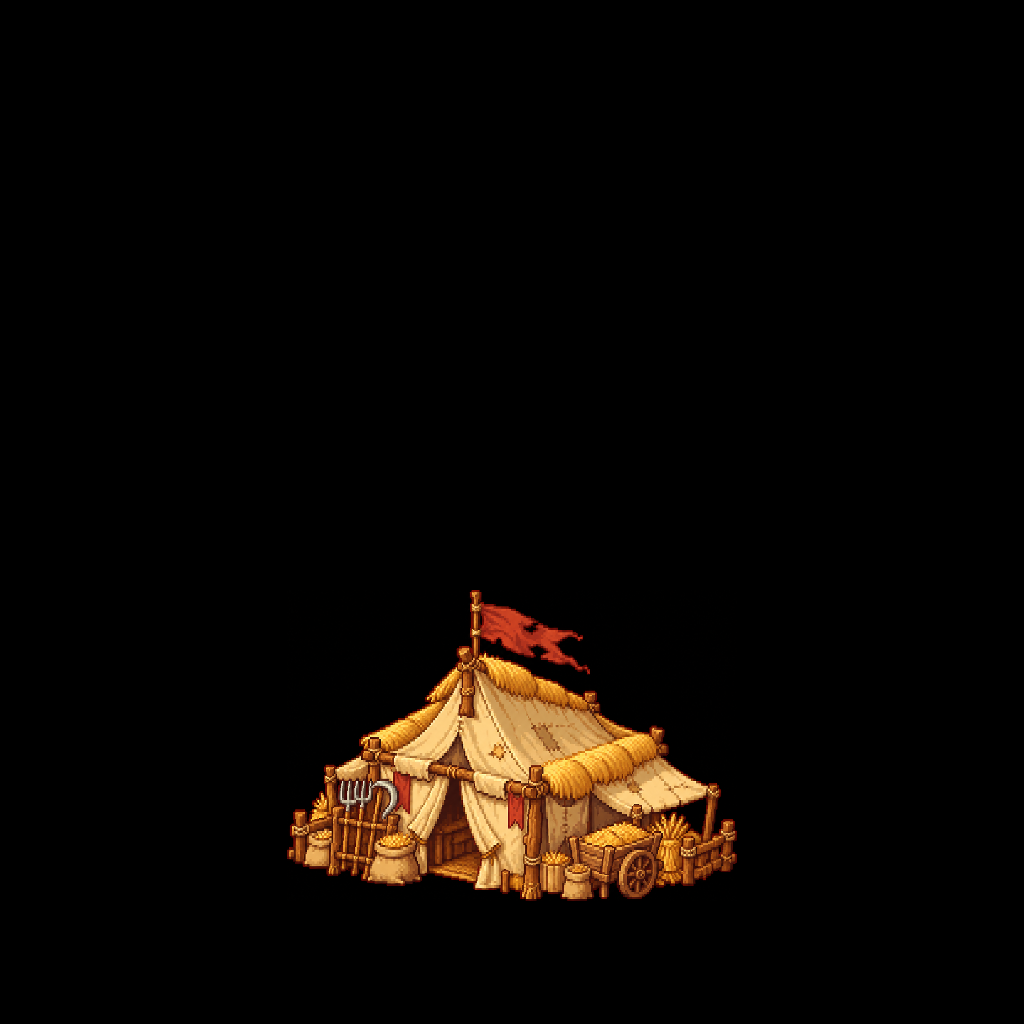
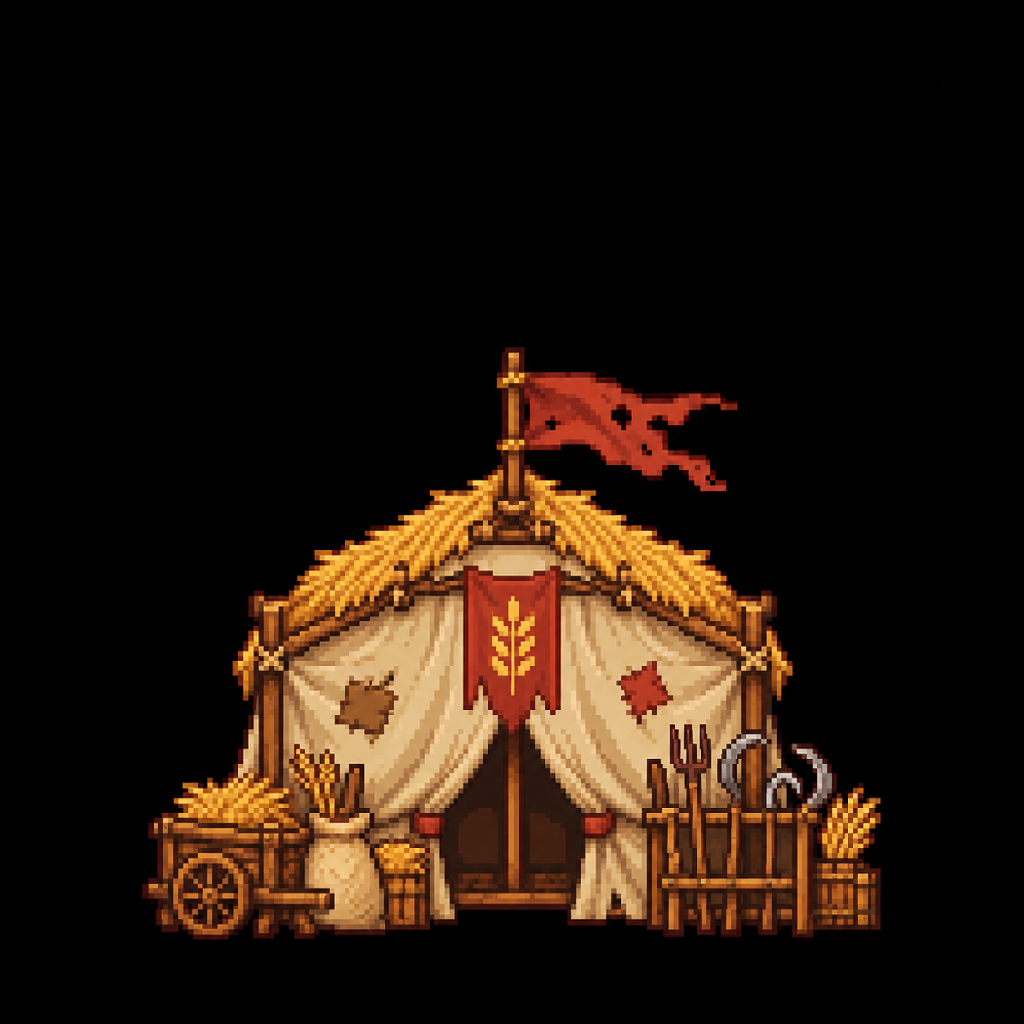
docs(art): redraw wheat buildings in the front-facing map perspective

Changed region(s): [[0.125, 0.3438, 0.875, 0.9375]]

diff --git a/docs/art-review/g3e/buildings/make_prompts.py b/docs/art-review/g3e/buildings/make_prompts.py
@@ -12,10 +12,10 @@ B = ROOT / 'docs/art-review/g3e/buildings'
 
 COMMON = """Tạo MỘT ảnh pixel art bằng công cụ tạo ảnh (imagegen) và lưu đúng một file PNG vào `{out}` (sao chép vào đó nếu ảnh tạo ra nằm ngoài repo; tạo thư mục nếu chưa có). Không sửa file khác, không commit, không chạy node/npm.
 
-Ảnh tham chiếu: `docs/art-review/g3e/ai-v1/source-sheet.webp` (nhà tranh, ô cỏ: chuẩn phong cách) và `docs/art-review/g3e/batch-01-barracks/source.png` (trại lính). Giữ ĐÚNG phong cách: pixel art fantasy ấm áp, "pixel" lớn khoảng 7×7 điểm ảnh, ánh sáng từ TRÊN-TRÁI, viền tối nâu đỏ 1 pixel quanh công trình, không anti-aliasing, không làm mờ, không chữ.
+Ảnh tham chiếu: `docs/art-review/g3e/ai-v1/source-sheet.webp` (nhà tranh, ô cỏ: chuẩn phong cách) và `docs/art-review/g3e/batch-01-barracks/source.png` (trại lính). Giữ ĐÚNG phong cách và GÓC NHÌN của hai ảnh tham chiếu: pixel art fantasy ấm áp, "pixel" lớn khoảng 7×7 điểm ảnh, ánh sáng từ TRÊN-TRÁI, viền tối nâu đỏ 1 pixel quanh công trình, không anti-aliasing, không làm mờ, không chữ.
 
-Góc nhìn XÉO 3/4 như Stardew Valley (thấy mặt trước và một phần mái, hơi từ trên xuống), giống nhà tranh và trại lính tham chiếu.
-Ảnh 1024×1024, nền ĐEN PHẲNG #000000 hoàn toàn (KHÔNG quầng sáng, KHÔNG bóng đổ lên nền, KHÔNG nền đất/cỏ dưới chân, KHÔNG viền ô). MỘT công trình duy nhất đứng giữa ảnh theo chiều ngang, rộng khoảng 440–460 px, chân công trình chạm một đường nằm ngang ở khoảng y = 900 (chiều cao tối đa khoảng 560 px). Trong công trình KHÔNG có điểm đen thuần.
+GÓC NHÌN (RẤT QUAN TRỌNG — giống Stardew Valley và giống nhà tranh/trại lính tham chiếu): MẶT TIỀN của công trình QUAY THẲNG VỀ PHÍA NGƯỜI XEM, các cạnh ngang của mặt tiền nằm NGANG và các cạnh đứng nằm ĐỨNG trong ảnh. Camera nhìn hơi từ trên xuống nên thấy mặt tiền (lớn) và mặt mái phía trên (dẹt), KHÔNG thấy mặt bên. TUYỆT ĐỐI KHÔNG vẽ isometric: không xoay công trình 45°, không nhìn vào góc nhà, không thấy hai mặt tường cùng lúc, không có hình thoi/kim cương, không có đường chéo 2:1. Công trình phẳng đặt trên mặt đất cũng nhìn theo cách đó (ví dụ ruộng: một hình chữ nhật nằm ngang, các luống chạy ngang hoặc dọc song song với cạnh ảnh, nhìn hơi từ trên xuống).
+Ảnh 1024×1024, nền ĐEN PHẲNG #000000 hoàn toàn (KHÔNG quầng sáng, KHÔNG bóng đổ lên nền, KHÔNG nền đất/cỏ dưới chân, KHÔNG viền ô). MỘT công trình duy nhất đứng giữa ảnh theo chiều ngang, rộng khoảng 440–460 px, chân công trình chạm một đường nằm ngang ở khoảng y = 900; chiều cao TỐI ĐA 520 px (không cao hơn). Trong công trình KHÔNG có điểm đen thuần.
 
 CÔNG TRÌNH: {name} — {desc}
 Chủ đề kiến trúc của {king_name}: {theme}

diff --git a/docs/art-review/g3e/buildings/wheat/building_wheat_scarecrow/prompt.md b/docs/art-review/g3e/buildings/wheat/building_wheat_scarecrow/prompt.md
@@ -1,9 +1,9 @@
 Tạo MỘT ảnh pixel art bằng công cụ tạo ảnh (imagegen) và lưu đúng một file PNG vào `docs/art-review/g3e/buildings/wheat/building_wheat_scarecrow/source.png` (sao chép vào đó nếu ảnh tạo ra nằm ngoài repo; tạo thư mục nếu chưa có). Không sửa file khác, không commit, không chạy node/npm.
 
-Ảnh tham chiếu: `docs/art-review/g3e/ai-v1/source-sheet.webp` (nhà tranh, ô cỏ: chuẩn phong cách) và `docs/art-review/g3e/batch-01-barracks/source.png` (trại lính). Giữ ĐÚNG phong cách: pixel art fantasy ấm áp, "pixel" lớn khoảng 7×7 điểm ảnh, ánh sáng từ TRÊN-TRÁI, viền tối nâu đỏ 1 pixel quanh công trình, không anti-aliasing, không làm mờ, không chữ.
+Ảnh tham chiếu: `docs/art-review/g3e/ai-v1/source-sheet.webp` (nhà tranh, ô cỏ: chuẩn phong cách) và `docs/art-review/g3e/batch-01-barracks/source.png` (trại lính). Giữ ĐÚNG phong cách và GÓC NHÌN của hai ảnh tham chiếu: pixel art fantasy ấm áp, "pixel" lớn khoảng 7×7 điểm ảnh, ánh sáng từ TRÊN-TRÁI, viền tối nâu đỏ 1 pixel quanh công trình, không anti-aliasing, không làm mờ, không chữ.
 
-Góc nhìn XÉO 3/4 như Stardew Valley (thấy mặt trước và một phần mái, hơi từ trên xuống), giống nhà tranh và trại lính tham chiếu.
-Ảnh 1024×1024, nền ĐEN PHẲNG #000000 hoàn toàn (KHÔNG quầng sáng, KHÔNG bóng đổ lên nền, KHÔNG nền đất/cỏ dưới chân, KHÔNG viền ô). MỘT công trình duy nhất đứng giữa ảnh theo chiều ngang, rộng khoảng 440–460 px, chân công trình chạm một đường nằm ngang ở khoảng y = 900 (chiều cao tối đa khoảng 560 px). Trong công trình KHÔNG có điểm đen thuần.
+GÓC NHÌN (RẤT QUAN TRỌNG — giống Stardew Valley và giống nhà tranh/trại lính tham chiếu): MẶT TIỀN của công trình QUAY THẲNG VỀ PHÍA NGƯỜI XEM, các cạnh ngang của mặt tiền nằm NGANG và các cạnh đứng nằm ĐỨNG trong ảnh. Camera nhìn hơi từ trên xuống nên thấy mặt tiền (lớn) và mặt mái phía trên (dẹt), KHÔNG thấy mặt bên. TUYỆT ĐỐI KHÔNG vẽ isometric: không xoay công trình 45°, không nhìn vào góc nhà, không thấy hai mặt tường cùng lúc, không có hình thoi/kim cương, không có đường chéo 2:1. Công trình phẳng đặt trên mặt đất cũng nhìn theo cách đó (ví dụ ruộng: một hình chữ nhật nằm ngang, các luống chạy ngang hoặc dọc song song với cạnh ảnh, nhìn hơi từ trên xuống).
+Ảnh 1024×1024, nền ĐEN PHẲNG #000000 hoàn toàn (KHÔNG quầng sáng, KHÔNG bóng đổ lên nền, KHÔNG nền đất/cỏ dưới chân, KHÔNG viền ô). MỘT công trình duy nhất đứng giữa ảnh theo chiều ngang, rộng khoảng 440–460 px, chân công trình chạm một đường nằm ngang ở khoảng y = 900; chiều cao TỐI ĐA 520 px (không cao hơn). Trong công trình KHÔNG có điểm đen thuần.
 
 CÔNG TRÌNH: Bù Nhìn Gác — tháp gác nông trại: bù nhìn lớn đội mũ rơm đứng trên bục gỗ cao có mái nhỏ, ngực treo ná/cung; công trình CAO, tháp bắn.
 Chủ đề kiến trúc của vua Lúa Mì: nông trại ấm áp, gỗ sáng màu, mái rơm vàng, bao lúa, hàng rào gỗ, tông vàng và nâu đất.

diff --git a/docs/art-review/g3e/buildings/wheat/building_wheat_field/prompt.md b/docs/art-review/g3e/buildings/wheat/building_wheat_field/prompt.md
@@ -1,9 +1,9 @@
 Tạo MỘT ảnh pixel art bằng công cụ tạo ảnh (imagegen) và lưu đúng một file PNG vào `docs/art-review/g3e/buildings/wheat/building_wheat_field/source.png` (sao chép vào đó nếu ảnh tạo ra nằm ngoài repo; tạo thư mục nếu chưa có). Không sửa file khác, không commit, không chạy node/npm.
 
-Ảnh tham chiếu: `docs/art-review/g3e/ai-v1/source-sheet.webp` (nhà tranh, ô cỏ: chuẩn phong cách) và `docs/art-review/g3e/batch-01-barracks/source.png` (trại lính). Giữ ĐÚNG phong cách: pixel art fantasy ấm áp, "pixel" lớn khoảng 7×7 điểm ảnh, ánh sáng từ TRÊN-TRÁI, viền tối nâu đỏ 1 pixel quanh công trình, không anti-aliasing, không làm mờ, không chữ.
+Ảnh tham chiếu: `docs/art-review/g3e/ai-v1/source-sheet.webp` (nhà tranh, ô cỏ: chuẩn phong cách) và `docs/art-review/g3e/batch-01-barracks/source.png` (trại lính). Giữ ĐÚNG phong cách và GÓC NHÌN của hai ảnh tham chiếu: pixel art fantasy ấm áp, "pixel" lớn khoảng 7×7 điểm ảnh, ánh sáng từ TRÊN-TRÁI, viền tối nâu đỏ 1 pixel quanh công trình, không anti-aliasing, không làm mờ, không chữ.
 
-Góc nhìn XÉO 3/4 như Stardew Valley (thấy mặt trước và một phần mái, hơi từ trên xuống), giống nhà tranh và trại lính tham chiếu.
-Ảnh 1024×1024, nền ĐEN PHẲNG #000000 hoàn toàn (KHÔNG quầng sáng, KHÔNG bóng đổ lên nền, KHÔNG nền đất/cỏ dưới chân, KHÔNG viền ô). MỘT công trình duy nhất đứng giữa ảnh theo chiều ngang, rộng khoảng 440–460 px, chân công trình chạm một đường nằm ngang ở khoảng y = 900 (chiều cao tối đa khoảng 560 px). Trong công trình KHÔNG có điểm đen thuần.
+GÓC NHÌN (RẤT QUAN TRỌNG — giống Stardew Valley và giống nhà tranh/trại lính tham chiếu): MẶT TIỀN của công trình QUAY THẲNG VỀ PHÍA NGƯỜI XEM, các cạnh ngang của mặt tiền nằm NGANG và các cạnh đứng nằm ĐỨNG trong ảnh. Camera nhìn hơi từ trên xuống nên thấy mặt tiền (lớn) và mặt mái phía trên (dẹt), KHÔNG thấy mặt bên. TUYỆT ĐỐI KHÔNG vẽ isometric: không xoay công trình 45°, không nhìn vào góc nhà, không thấy hai mặt tường cùng lúc, không có hình thoi/kim cương, không có đường chéo 2:1. Công trình phẳng đặt trên mặt đất cũng nhìn theo cách đó (ví dụ ruộng: một hình chữ nhật nằm ngang, các luống chạy ngang hoặc dọc song song với cạnh ảnh, nhìn hơi từ trên xuống).
+Ảnh 1024×1024, nền ĐEN PHẲNG #000000 hoàn toàn (KHÔNG quầng sáng, KHÔNG bóng đổ lên nền, KHÔNG nền đất/cỏ dưới chân, KHÔNG viền ô). MỘT công trình duy nhất đứng giữa ảnh theo chiều ngang, rộng khoảng 440–460 px, chân công trình chạm một đường nằm ngang ở khoảng y = 900; chiều cao TỐI ĐA 520 px (không cao hơn). Trong công trình KHÔNG có điểm đen thuần.
 
 CÔNG TRÌNH: Ruộng Lúa — một thửa ruộng lúa chín vàng gọn gàng, có hàng rào gỗ thấp và một cổng nhỏ; công trình THẤP (cao khoảng 250 px), kinh tế.
 Chủ đề kiến trúc của vua Lúa Mì: nông trại ấm áp, gỗ sáng màu, mái rơm vàng, bao lúa, hàng rào gỗ, tông vàng và nâu đất.

diff --git a/docs/art-review/g3e/buildings/wheat/building_wheat_peasant_horde/prompt.md b/docs/art-review/g3e/buildings/wheat/building_wheat_peasant_horde/prompt.md
@@ -1,9 +1,9 @@
 Tạo MỘT ảnh pixel art bằng công cụ tạo ảnh (imagegen) và lưu đúng một file PNG vào `docs/art-review/g3e/buildings/wheat/building_wheat_peasant_horde/source.png` (sao chép vào đó nếu ảnh tạo ra nằm ngoài repo; tạo thư mục nếu chưa có). Không sửa file khác, không commit, không chạy node/npm.
 
-Ảnh tham chiếu: `docs/art-review/g3e/ai-v1/source-sheet.webp` (nhà tranh, ô cỏ: chuẩn phong cách) và `docs/art-review/g3e/batch-01-barracks/source.png` (trại lính). Giữ ĐÚNG phong cách: pixel art fantasy ấm áp, "pixel" lớn khoảng 7×7 điểm ảnh, ánh sáng từ TRÊN-TRÁI, viền tối nâu đỏ 1 pixel quanh công trình, không anti-aliasing, không làm mờ, không chữ.
+Ảnh tham chiếu: `docs/art-review/g3e/ai-v1/source-sheet.webp` (nhà tranh, ô cỏ: chuẩn phong cách) và `docs/art-review/g3e/batch-01-barracks/source.png` (trại lính). Giữ ĐÚNG phong cách và GÓC NHÌN của hai ảnh tham chiếu: pixel art fantasy ấm áp, "pixel" lớn khoảng 7×7 điểm ảnh, ánh sáng từ TRÊN-TRÁI, viền tối nâu đỏ 1 pixel quanh công trình, không anti-aliasing, không làm mờ, không chữ.
 
-Góc nhìn XÉO 3/4 như Stardew Valley (thấy mặt trước và một phần mái, hơi từ trên xuống), giống nhà tranh và trại lính tham chiếu.
-Ảnh 1024×1024, nền ĐEN PHẲNG #000000 hoàn toàn (KHÔNG quầng sáng, KHÔNG bóng đổ lên nền, KHÔNG nền đất/cỏ dưới chân, KHÔNG viền ô). MỘT công trình duy nhất đứng giữa ảnh theo chiều ngang, rộng khoảng 440–460 px, chân công trình chạm một đường nằm ngang ở khoảng y = 900 (chiều cao tối đa khoảng 560 px). Trong công trình KHÔNG có điểm đen thuần.
+GÓC NHÌN (RẤT QUAN TRỌNG — giống Stardew Valley và giống nhà tranh/trại lính tham chiếu): MẶT TIỀN của công trình QUAY THẲNG VỀ PHÍA NGƯỜI XEM, các cạnh ngang của mặt tiền nằm NGANG và các cạnh đứng nằm ĐỨNG trong ảnh. Camera nhìn hơi từ trên xuống nên thấy mặt tiền (lớn) và mặt mái phía trên (dẹt), KHÔNG thấy mặt bên. TUYỆT ĐỐI KHÔNG vẽ isometric: không xoay công trình 45°, không nhìn vào góc nhà, không thấy hai mặt tường cùng lúc, không có hình thoi/kim cương, không có đường chéo 2:1. Công trình phẳng đặt trên mặt đất cũng nhìn theo cách đó (ví dụ ruộng: một hình chữ nhật nằm ngang, các luống chạy ngang hoặc dọc song song với cạnh ảnh, nhìn hơi từ trên xuống).
+Ảnh 1024×1024, nền ĐEN PHẲNG #000000 hoàn toàn (KHÔNG quầng sáng, KHÔNG bóng đổ lên nền, KHÔNG nền đất/cỏ dưới chân, KHÔNG viền ô). MỘT công trình duy nhất đứng giữa ảnh theo chiều ngang, rộng khoảng 440–460 px, chân công trình chạm một đường nằm ngang ở khoảng y = 900; chiều cao TỐI ĐA 520 px (không cao hơn). Trong công trình KHÔNG có điểm đen thuần.
 
 CÔNG TRÌNH: Khởi Nghĩa Nông Dân — trại nông dân nổi dậy: lều vải thô, cờ đỏ rách, chĩa ba và liềm dựng thành giá, xe rơm; sinh quân.
 Chủ đề kiến trúc của vua Lúa Mì: nông trại ấm áp, gỗ sáng màu, mái rơm vàng, bao lúa, hàng rào gỗ, tông vàng và nâu đất.

diff --git a/docs/art-review/g3e/buildings/wheat/building_wheat_reapers/prompt.md b/docs/art-review/g3e/buildings/wheat/building_wheat_reapers/prompt.md
@@ -1,9 +1,9 @@
 Tạo MỘT ảnh pixel art bằng công cụ tạo ảnh (imagegen) và lưu đúng một file PNG vào `docs/art-review/g3e/buildings/wheat/building_wheat_reapers/source.png` (sao chép vào đó nếu ảnh tạo ra nằm ngoài repo; tạo thư mục nếu chưa có). Không sửa file khác, không commit, không chạy node/npm.
 
-Ảnh tham chiếu: `docs/art-review/g3e/ai-v1/source-sheet.webp` (nhà tranh, ô cỏ: chuẩn phong cách) và `docs/art-review/g3e/batch-01-barracks/source.png` (trại lính). Giữ ĐÚNG phong cách: pixel art fantasy ấm áp, "pixel" lớn khoảng 7×7 điểm ảnh, ánh sáng từ TRÊN-TRÁI, viền tối nâu đỏ 1 pixel quanh công trình, không anti-aliasing, không làm mờ, không chữ.
+Ảnh tham chiếu: `docs/art-review/g3e/ai-v1/source-sheet.webp` (nhà tranh, ô cỏ: chuẩn phong cách) và `docs/art-review/g3e/batch-01-barracks/source.png` (trại lính). Giữ ĐÚNG phong cách và GÓC NHÌN của hai ảnh tham chiếu: pixel art fantasy ấm áp, "pixel" lớn khoảng 7×7 điểm ảnh, ánh sáng từ TRÊN-TRÁI, viền tối nâu đỏ 1 pixel quanh công trình, không anti-aliasing, không làm mờ, không chữ.
 
-Góc nhìn XÉO 3/4 như Stardew Valley (thấy mặt trước và một phần mái, hơi từ trên xuống), giống nhà tranh và trại lính tham chiếu.
-Ảnh 1024×1024, nền ĐEN PHẲNG #000000 hoàn toàn (KHÔNG quầng sáng, KHÔNG bóng đổ lên nền, KHÔNG nền đất/cỏ dưới chân, KHÔNG viền ô). MỘT công trình duy nhất đứng giữa ảnh theo chiều ngang, rộng khoảng 440–460 px, chân công trình chạm một đường nằm ngang ở khoảng y = 900 (chiều cao tối đa khoảng 560 px). Trong công trình KHÔNG có điểm đen thuần.
+GÓC NHÌN (RẤT QUAN TRỌNG — giống Stardew Valley và giống nhà tranh/trại lính tham chiếu): MẶT TIỀN của công trình QUAY THẲNG VỀ PHÍA NGƯỜI XEM, các cạnh ngang của mặt tiền nằm NGANG và các cạnh đứng nằm ĐỨNG trong ảnh. Camera nhìn hơi từ trên xuống nên thấy mặt tiền (lớn) và mặt mái phía trên (dẹt), KHÔNG thấy mặt bên. TUYỆT ĐỐI KHÔNG vẽ isometric: không xoay công trình 45°, không nhìn vào góc nhà, không thấy hai mặt tường cùng lúc, không có hình thoi/kim cương, không có đường chéo 2:1. Công trình phẳng đặt trên mặt đất cũng nhìn theo cách đó (ví dụ ruộng: một hình chữ nhật nằm ngang, các luống chạy ngang hoặc dọc song song với cạnh ảnh, nhìn hơi từ trên xuống).
+Ảnh 1024×1024, nền ĐEN PHẲNG #000000 hoàn toàn (KHÔNG quầng sáng, KHÔNG bóng đổ lên nền, KHÔNG nền đất/cỏ dưới chân, KHÔNG viền ô). MỘT công trình duy nhất đứng giữa ảnh theo chiều ngang, rộng khoảng 440–460 px, chân công trình chạm một đường nằm ngang ở khoảng y = 900; chiều cao TỐI ĐA 520 px (không cao hơn). Trong công trình KHÔNG có điểm đen thuần.
 
 CÔNG TRÌNH: Đội Thợ Gặt — nhà kho thợ gặt bằng gỗ có liềm lớn treo trước cửa, bó lúa dựng quanh, mái rơm; sinh quân.
 Chủ đề kiến trúc của vua Lúa Mì: nông trại ấm áp, gỗ sáng màu, mái rơm vàng, bao lúa, hàng rào gỗ, tông vàng và nâu đất.

diff --git a/docs/art-review/g3e/buildings/wheat/building_wheat_granary/prompt.md b/docs/art-review/g3e/buildings/wheat/building_wheat_granary/prompt.md
@@ -1,9 +1,9 @@
 Tạo MỘT ảnh pixel art bằng công cụ tạo ảnh (imagegen) và lưu đúng một file PNG vào `docs/art-review/g3e/buildings/wheat/building_wheat_granary/source.png` (sao chép vào đó nếu ảnh tạo ra nằm ngoài repo; tạo thư mục nếu chưa có). Không sửa file khác, không commit, không chạy node/npm.
 
-Ảnh tham chiếu: `docs/art-review/g3e/ai-v1/source-sheet.webp` (nhà tranh, ô cỏ: chuẩn phong cách) và `docs/art-review/g3e/batch-01-barracks/source.png` (trại lính). Giữ ĐÚNG phong cách: pixel art fantasy ấm áp, "pixel" lớn khoảng 7×7 điểm ảnh, ánh sáng từ TRÊN-TRÁI, viền tối nâu đỏ 1 pixel quanh công trình, không anti-aliasing, không làm mờ, không chữ.
+Ảnh tham chiếu: `docs/art-review/g3e/ai-v1/source-sheet.webp` (nhà tranh, ô cỏ: chuẩn phong cách) và `docs/art-review/g3e/batch-01-barracks/source.png` (trại lính). Giữ ĐÚNG phong cách và GÓC NHÌN của hai ảnh tham chiếu: pixel art fantasy ấm áp, "pixel" lớn khoảng 7×7 điểm ảnh, ánh sáng từ TRÊN-TRÁI, viền tối nâu đỏ 1 pixel quanh công trình, không anti-aliasing, không làm mờ, không chữ.
 
-Góc nhìn XÉO 3/4 như Stardew Valley (thấy mặt trước và một phần mái, hơi từ trên xuống), giống nhà tranh và trại lính tham chiếu.
-Ảnh 1024×1024, nền ĐEN PHẲNG #000000 hoàn toàn (KHÔNG quầng sáng, KHÔNG bóng đổ lên nền, KHÔNG nền đất/cỏ dưới chân, KHÔNG viền ô). MỘT công trình duy nhất đứng giữa ảnh theo chiều ngang, rộng khoảng 440–460 px, chân công trình chạm một đường nằm ngang ở khoảng y = 900 (chiều cao tối đa khoảng 560 px). Trong công trình KHÔNG có điểm đen thuần.
+GÓC NHÌN (RẤT QUAN TRỌNG — giống Stardew Valley và giống nhà tranh/trại lính tham chiếu): MẶT TIỀN của công trình QUAY THẲNG VỀ PHÍA NGƯỜI XEM, các cạnh ngang của mặt tiền nằm NGANG và các cạnh đứng nằm ĐỨNG trong ảnh. Camera nhìn hơi từ trên xuống nên thấy mặt tiền (lớn) và mặt mái phía trên (dẹt), KHÔNG thấy mặt bên. TUYỆT ĐỐI KHÔNG vẽ isometric: không xoay công trình 45°, không nhìn vào góc nhà, không thấy hai mặt tường cùng lúc, không có hình thoi/kim cương, không có đường chéo 2:1. Công trình phẳng đặt trên mặt đất cũng nhìn theo cách đó (ví dụ ruộng: một hình chữ nhật nằm ngang, các luống chạy ngang hoặc dọc song song với cạnh ảnh, nhìn hơi từ trên xuống).
+Ảnh 1024×1024, nền ĐEN PHẲNG #000000 hoàn toàn (KHÔNG quầng sáng, KHÔNG bóng đổ lên nền, KHÔNG nền đất/cỏ dưới chân, KHÔNG viền ô). MỘT công trình duy nhất đứng giữa ảnh theo chiều ngang, rộng khoảng 440–460 px, chân công trình chạm một đường nằm ngang ở khoảng y = 900; chiều cao TỐI ĐA 520 px (không cao hơn). Trong công trình KHÔNG có điểm đen thuần.
 
 CÔNG TRÌNH: Kho Thóc — kho thóc bằng gỗ dựng trên cột cao, mái rơm, bao lúa chất ở cửa, thang gỗ nhỏ; hỗ trợ.
 Chủ đề kiến trúc của vua Lúa Mì: nông trại ấm áp, gỗ sáng màu, mái rơm vàng, bao lúa, hàng rào gỗ, tông vàng và nâu đất.

diff --git a/docs/art-review/g3e/buildings/wheat/building_wheat_windmill/prompt.md b/docs/art-review/g3e/buildings/wheat/building_wheat_windmill/prompt.md
@@ -1,9 +1,9 @@
 Tạo MỘT ảnh pixel art bằng công cụ tạo ảnh (imagegen) và lưu đúng một file PNG vào `docs/art-review/g3e/buildings/wheat/building_wheat_windmill/source.png` (sao chép vào đó nếu ảnh tạo ra nằm ngoài repo; tạo thư mục nếu chưa có). Không sửa file khác, không commit, không chạy node/npm.
 
-Ảnh tham chiếu: `docs/art-review/g3e/ai-v1/source-sheet.webp` (nhà tranh, ô cỏ: chuẩn phong cách) và `docs/art-review/g3e/batch-01-barracks/source.png` (trại lính). Giữ ĐÚNG phong cách: pixel art fantasy ấm áp, "pixel" lớn khoảng 7×7 điểm ảnh, ánh sáng từ TRÊN-TRÁI, viền tối nâu đỏ 1 pixel quanh công trình, không anti-aliasing, không làm mờ, không chữ.
+Ảnh tham chiếu: `docs/art-review/g3e/ai-v1/source-sheet.webp` (nhà tranh, ô cỏ: chuẩn phong cách) và `docs/art-review/g3e/batch-01-barracks/source.png` (trại lính). Giữ ĐÚNG phong cách và GÓC NHÌN của hai ảnh tham chiếu: pixel art fantasy ấm áp, "pixel" lớn khoảng 7×7 điểm ảnh, ánh sáng từ TRÊN-TRÁI, viền tối nâu đỏ 1 pixel quanh công trình, không anti-aliasing, không làm mờ, không chữ.
 
-Góc nhìn XÉO 3/4 như Stardew Valley (thấy mặt trước và một phần mái, hơi từ trên xuống), giống nhà tranh và trại lính tham chiếu.
-Ảnh 1024×1024, nền ĐEN PHẲNG #000000 hoàn toàn (KHÔNG quầng sáng, KHÔNG bóng đổ lên nền, KHÔNG nền đất/cỏ dưới chân, KHÔNG viền ô). MỘT công trình duy nhất đứng giữa ảnh theo chiều ngang, rộng khoảng 440–460 px, chân công trình chạm một đường nằm ngang ở khoảng y = 900 (chiều cao tối đa khoảng 560 px). Trong công trình KHÔNG có điểm đen thuần.
+GÓC NHÌN (RẤT QUAN TRỌNG — giống Stardew Valley và giống nhà tranh/trại lính tham chiếu): MẶT TIỀN của công trình QUAY THẲNG VỀ PHÍA NGƯỜI XEM, các cạnh ngang của mặt tiền nằm NGANG và các cạnh đứng nằm ĐỨNG trong ảnh. Camera nhìn hơi từ trên xuống nên thấy mặt tiền (lớn) và mặt mái phía trên (dẹt), KHÔNG thấy mặt bên. TUYỆT ĐỐI KHÔNG vẽ isometric: không xoay công trình 45°, không nhìn vào góc nhà, không thấy hai mặt tường cùng lúc, không có hình thoi/kim cương, không có đường chéo 2:1. Công trình phẳng đặt trên mặt đất cũng nhìn theo cách đó (ví dụ ruộng: một hình chữ nhật nằm ngang, các luống chạy ngang hoặc dọc song song với cạnh ảnh, nhìn hơi từ trên xuống).
+Ảnh 1024×1024, nền ĐEN PHẲNG #000000 hoàn toàn (KHÔNG quầng sáng, KHÔNG bóng đổ lên nền, KHÔNG nền đất/cỏ dưới chân, KHÔNG viền ô). MỘT công trình duy nhất đứng giữa ảnh theo chiều ngang, rộng khoảng 440–460 px, chân công trình chạm một đường nằm ngang ở khoảng y = 900; chiều cao TỐI ĐA 520 px (không cao hơn). Trong công trình KHÔNG có điểm đen thuần.
 
 CÔNG TRÌNH: Cối Xay Gió — cối xay gió gỗ và đá với bốn cánh quạt vải, cửa nhỏ, bao bột; kinh tế.
 Chủ đề kiến trúc của vua Lúa Mì: nông trại ấm áp, gỗ sáng màu, mái rơm vàng, bao lúa, hàng rào gỗ, tông vàng và nâu đất.
